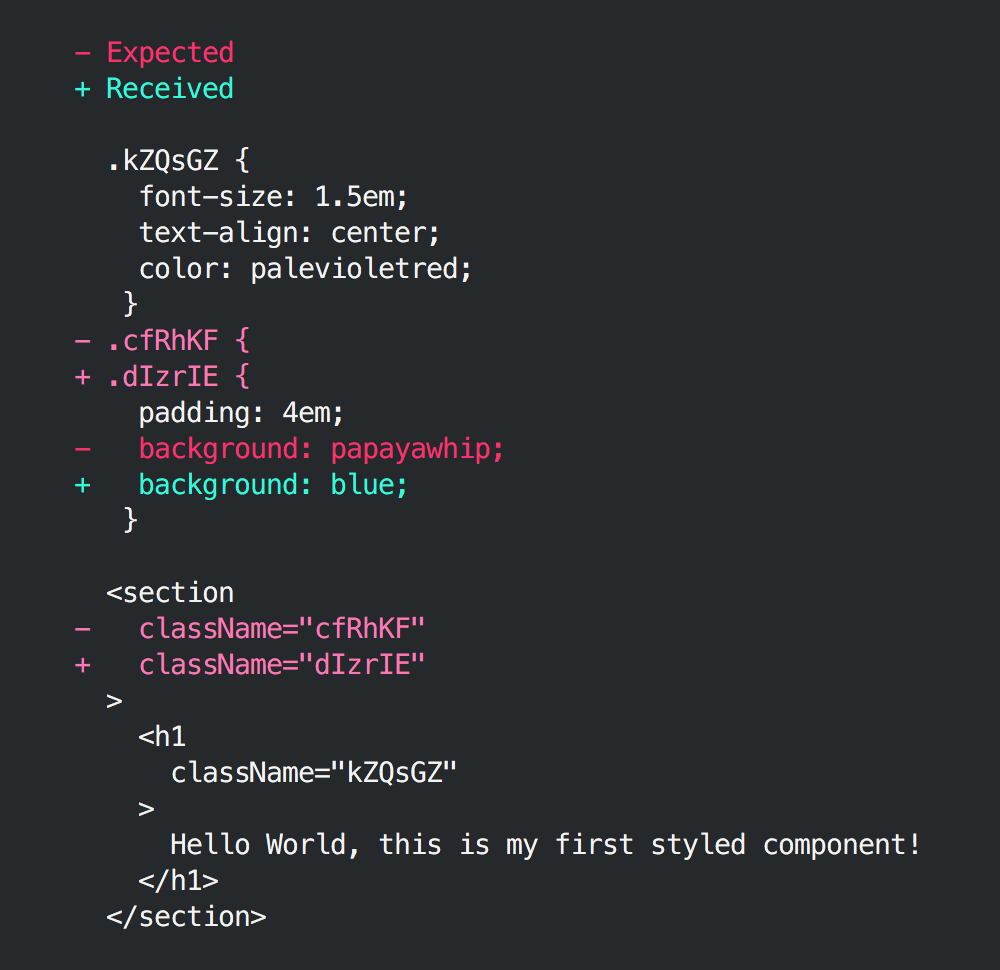
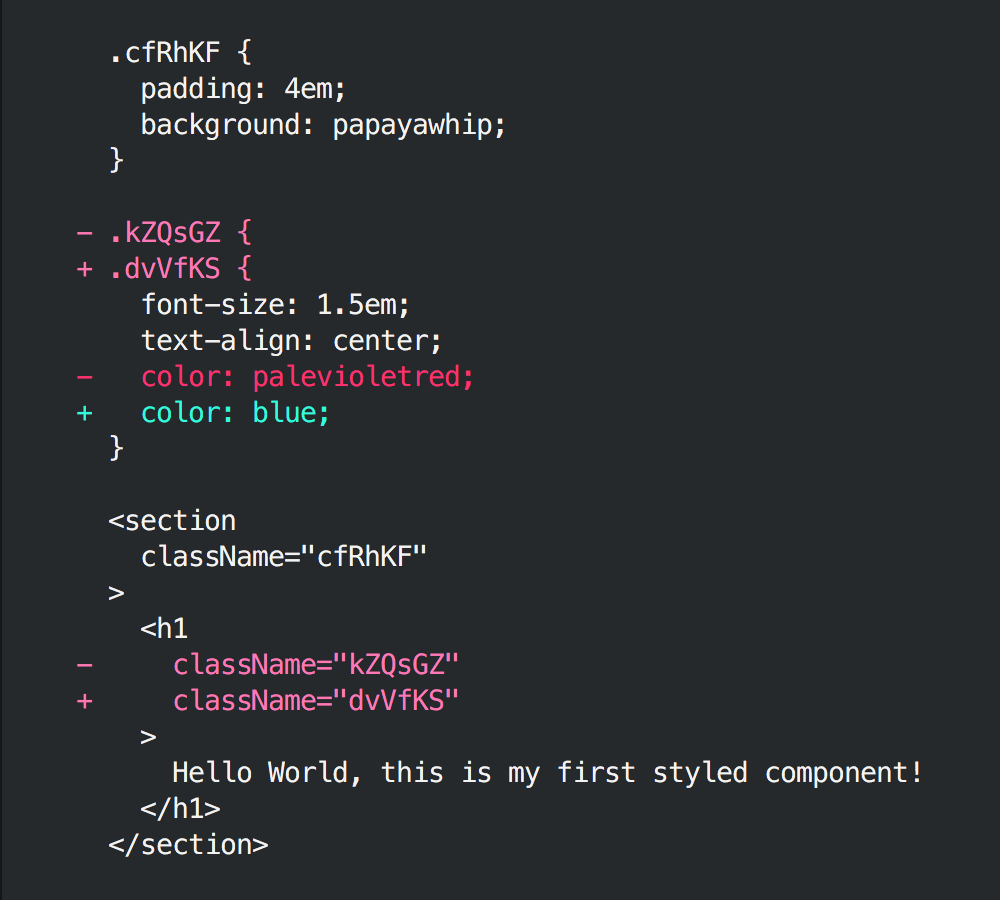
filter unused class names

diff --git a/src/serializer.js b/src/serializer.js
@@ -1,6 +1,17 @@
+const css = require('css')
 const prettyFormat = require('pretty-format')
 const reactTestPlugin = require('pretty-format/build/plugins/ReactTestComponent')
 const styleSheet = require('styled-components/lib/models/StyleSheet')
+
+const getStyles = (components) => {
+  const styles = styleSheet.rules().map(rule => rule.cssText).join('\n')
+  const ast = css.parse(styles)
+  ast.stylesheet.rules = ast.stylesheet.rules.filter(rule => (
+    components.indexOf(rule.selectors[0].substring(1)) > -1
+  ))
+
+  return css.stringify(ast)
+}
 
 const serializer = {
 
@@ -9,8 +20,8 @@ const serializer = {
   },
 
   print(val) {
-    const styles = styleSheet.rules().map(rule => rule.cssText).join('\n')
     const components = prettyFormat(val, { plugins: [reactTestPlugin] })
+    const styles = getStyles(components)
 
     return `${styles}\n\n${components}`
   },

diff --git a/test/index.spec.js b/test/index.spec.js
@@ -6,15 +6,15 @@ import { matcher, serializer } from '../src'
 expect.addSnapshotSerializer(serializer)
 expect.extend(matcher)
 
+const Wrapper = styled.section`
+  padding: 4em;
+  background: papayawhip;
+`
+
 const Title = styled.h1`
   font-size: 1.5em;
   text-align: center;
   color: palevioletred;
-`
-
-const Wrapper = styled.section`
-  padding: 4em;
-  background: papayawhip;
 `
 
 test('it works', () => {

diff --git a/README.md b/README.md
@@ -5,7 +5,7 @@
 
 ## Preview
 
-<img alt="Preview" src="screenshot.png" width="500px" height="485px" />
+<img alt="Preview" src="screenshot.png" width="500px" height="450px" />
 
 ## Installation
 
